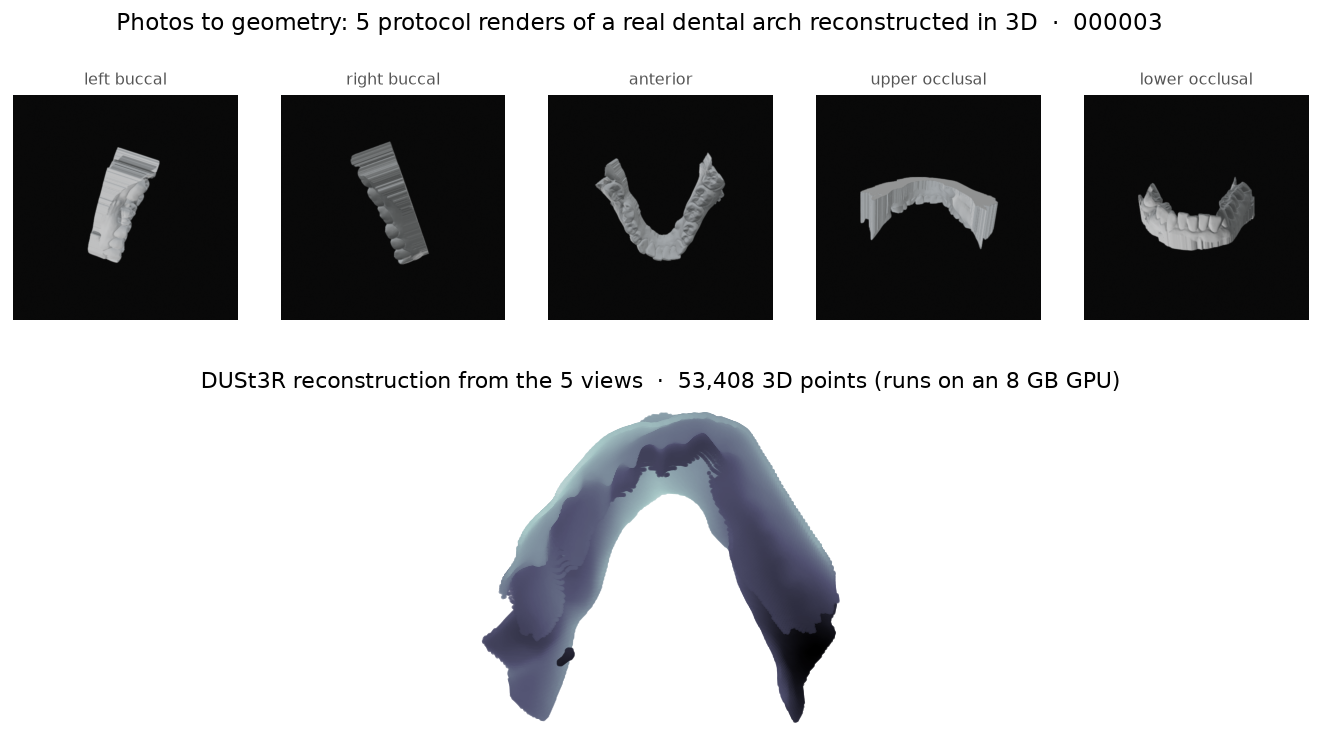
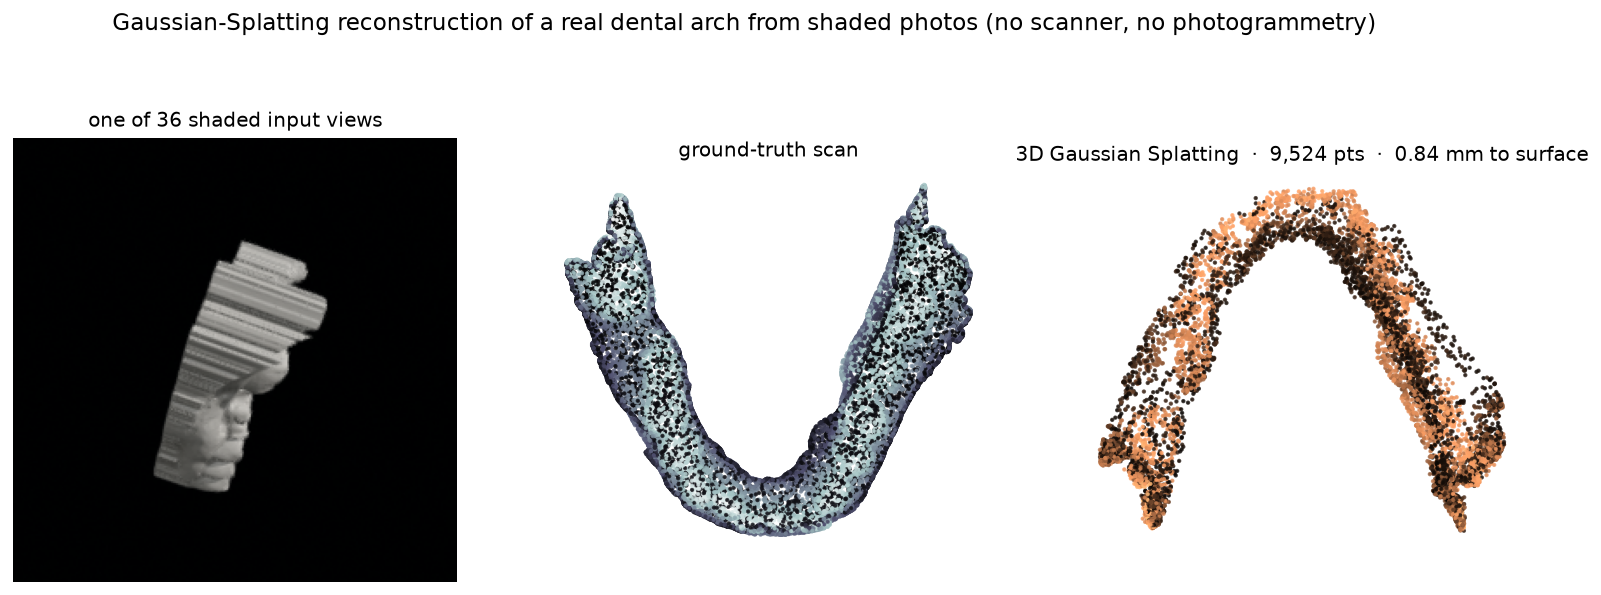
feat: Gaussian-Splatting reconstruction + clearer evidence
Replaces the DUSt3R photogrammetry path with 3D Gaussian Splatting (the user's
ask for bleeding-edge): a dense orbit of *shaded* views turns the textureless
dental surface into photometric signal, then gsplat optimises 3D Gaussians and
the surface points are read off them — 0.84 mm to the GT scan on a real arch.
Added examples/gsplat_reconstruct.py and a [recon] extra (torch + gsplat).

Evidence reworked:
- recon_evidence: now the Gaussian-Splatting result vs the GT scan
- identification: regenerated histogram with a decision-threshold line + plain
  "same person / different people" labels + the clean-gap annotation
- reordered to lead with the strong results; ViTPose landmarks reframed honestly
  as coarse localization the certificate does not depend on
- web/.nojekyll so Pages serves the assets folder

README + frontend updated to say Gaussian Splatting throughout.

diff --git a/index.html b/index.html
@@ -178,7 +178,7 @@
             <div class="metric"><span class="metric-k mono">Poisson denoise</span><span class="metric-v mono">−43%</span></div>
           </div>
           <p class="how">
-            Reconstruction (<strong>DUSt3R</strong>, runs on an 8&nbsp;GB GPU) →
+            Reconstruction (<strong>3D Gaussian Splatting</strong>, runs on an 8&nbsp;GB GPU) →
             screened-Poisson refinement → scale-aware surface error → conformal
             certificate. Pure-numpy from the error metric onward.
           </p>
@@ -200,18 +200,18 @@
       </div>
 
       <figure class="ev-panel reveal">
-        <img src="assets/landmark_montage.png" alt="ViTPose landmark predictions overlaid on eight real DenPAR radiograph teeth, against ground truth." loading="lazy" />
-        <figcaption><span class="ev-tag mono">overlays</span> ViTPose places CEJ, bone crest, and apex on real radiographs — ground truth in green, prediction in red.</figcaption>
-      </figure>
-
-      <figure class="ev-panel reveal">
-        <img src="assets/recon_evidence.png" alt="Five protocol views of a real dental arch and the DUSt3R 3D point cloud reconstructed from them." loading="lazy" />
-        <figcaption><span class="ev-tag mono">reconstruction</span> Five protocol views of a real arch become a 53k-point 3D surface via DUSt3R — on an 8&nbsp;GB GPU.</figcaption>
-      </figure>
-
-      <figure class="ev-panel reveal">
         <img src="assets/identity_overlay.png" alt="A query arch registers tightly onto its genuine enrolment (0.10mm) but not onto an impostor (0.54mm)." loading="lazy" />
-        <figcaption><span class="ev-tag mono">identification</span> The query arch (gold) snaps onto its own enrolment at 0.10&nbsp;mm, but cannot match a stranger's at 0.54&nbsp;mm.</figcaption>
+        <figcaption><span class="ev-tag mono">identification</span> The query arch (gold) snaps onto its own enrolment at 0.10&nbsp;mm, but cannot match a stranger's at 0.54&nbsp;mm — recognition by teeth, on real scans.</figcaption>
+      </figure>
+
+      <figure class="ev-panel reveal">
+        <img src="assets/recon_evidence.png" alt="A real dental arch reconstructed from shaded photos by 3D Gaussian Splatting, matching the ground-truth scan to 0.84mm." loading="lazy" />
+        <figcaption><span class="ev-tag mono">reconstruction</span> No scanner? <strong>3D Gaussian Splatting</strong> rebuilds the arch from shaded photos to <strong>0.84&nbsp;mm</strong> of the ground-truth scan — shading gives a textureless surface the signal photogrammetry can't find.</figcaption>
+      </figure>
+
+      <figure class="ev-panel reveal">
+        <img src="assets/landmark_montage.png" alt="ViTPose landmark predictions overlaid on eight real DenPAR radiograph teeth, against ground truth." loading="lazy" />
+        <figcaption><span class="ev-tag mono">localization</span> ViTPose coarsely localises CEJ and bone crest on real radiographs (GT green, prediction red). Pinpoint accuracy isn't needed — the change certificate measures the shift by sub-pixel registration, not by these points.</figcaption>
       </figure>
     </section>
 